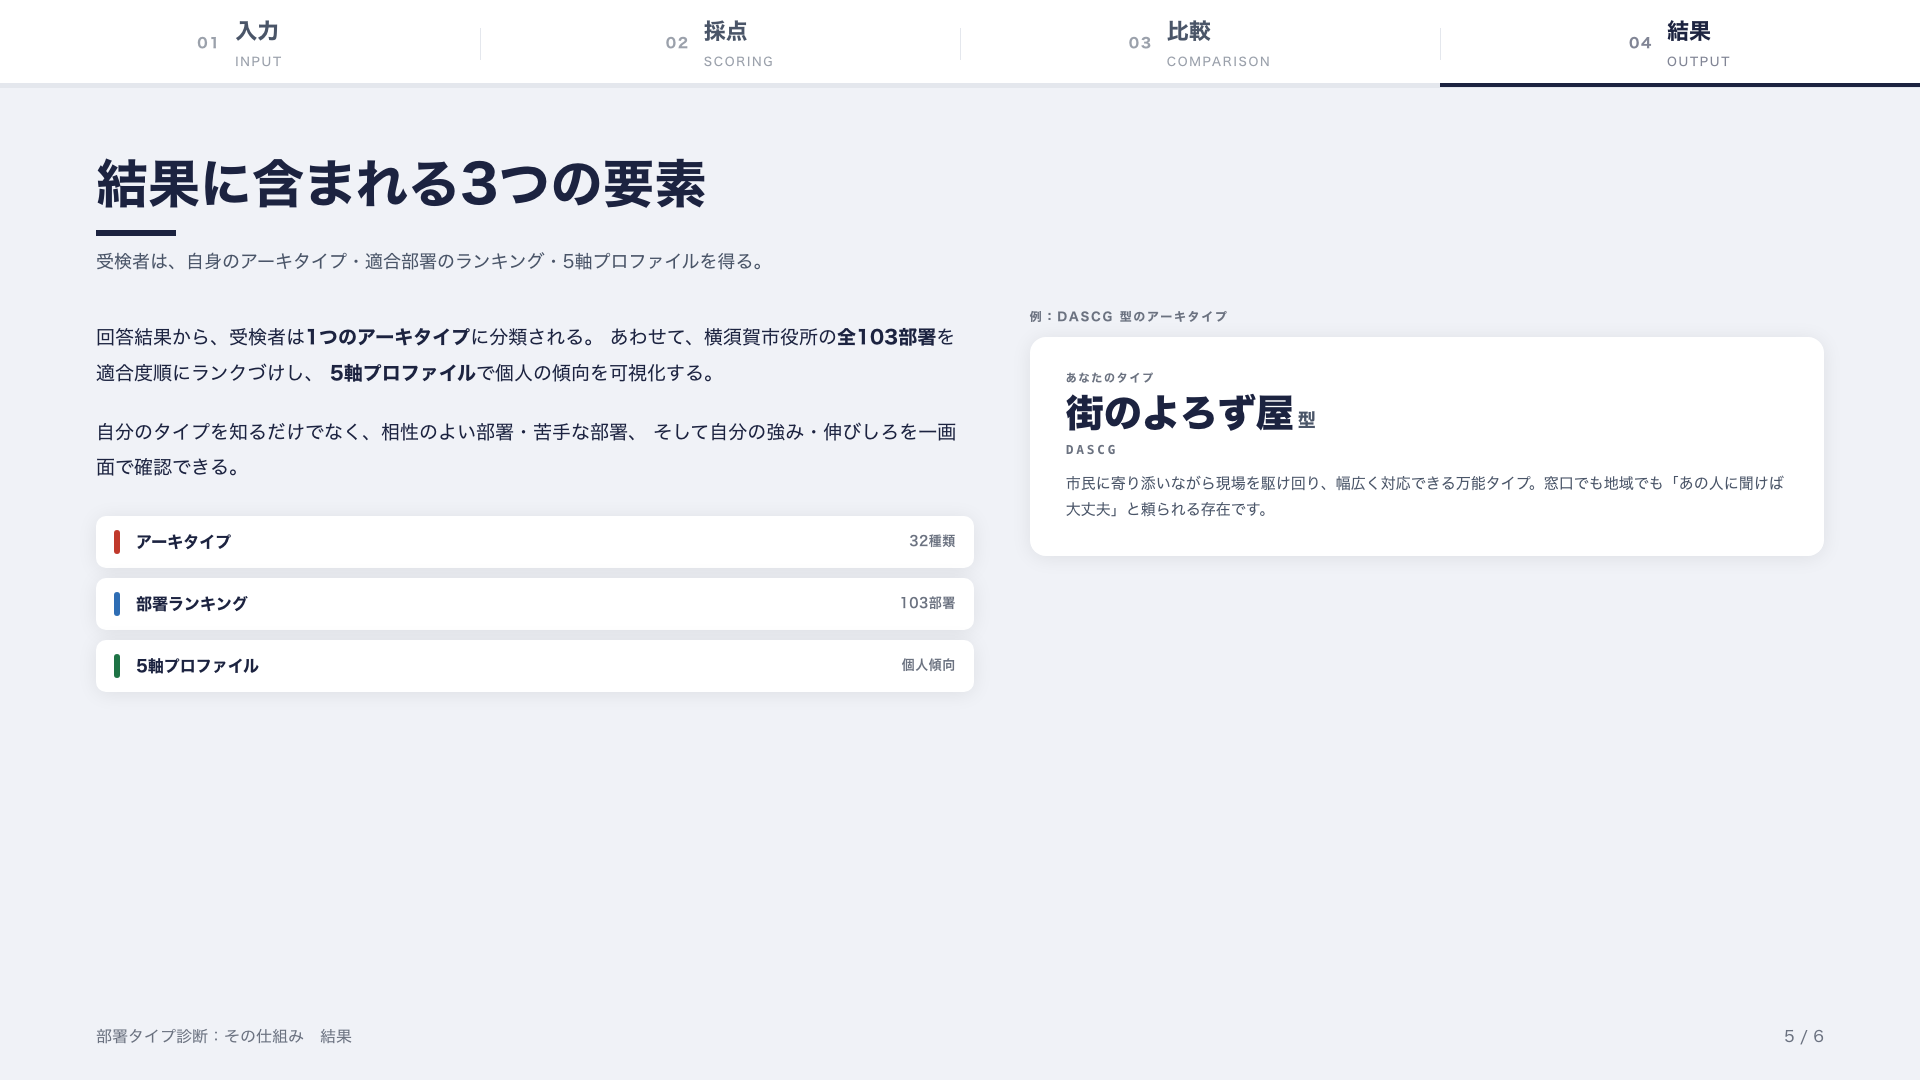
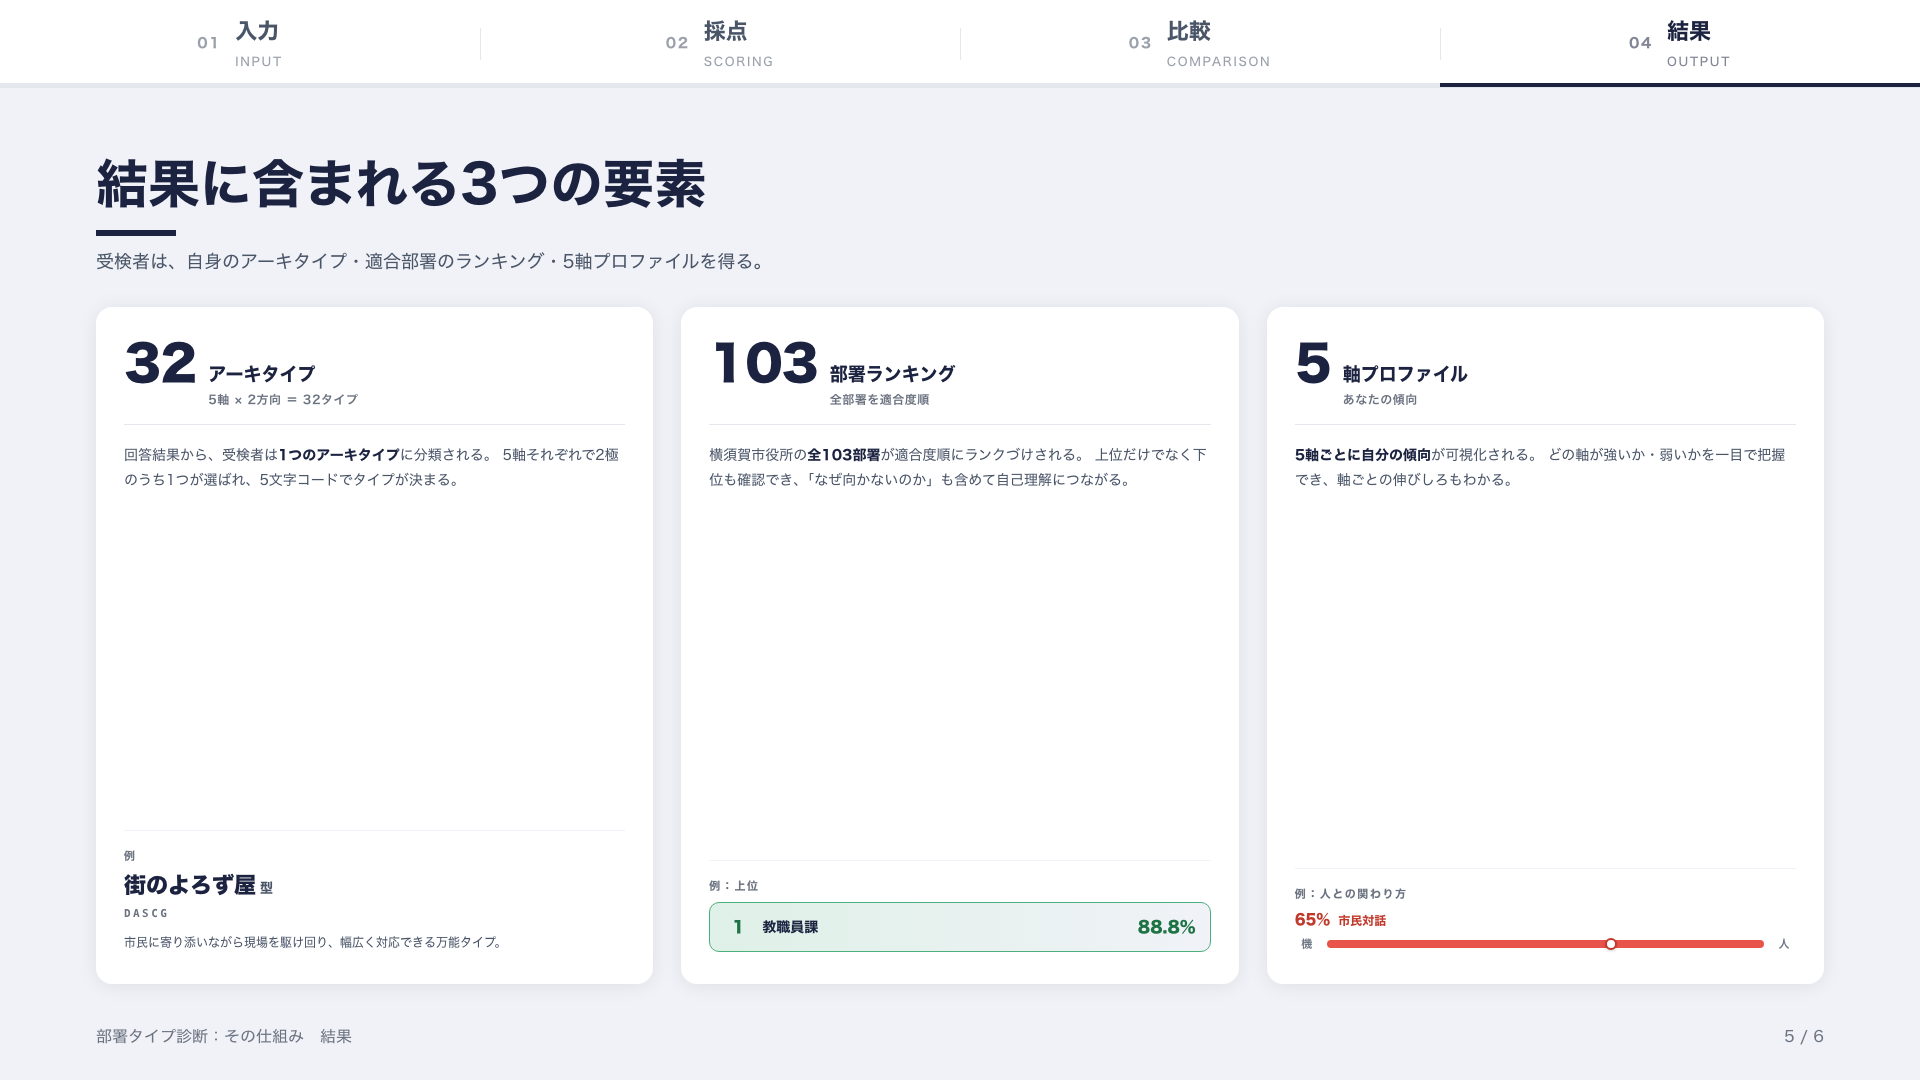
refactor(presentation): slide 5 — restore 3-card grid, swap content
Revert to the 3-column 32/103/5 card layout. Inside each card, replace
the previous list-style graphic (axis encoding strip / multi-row
ranking / 5-bar profile) with a paragraph explanation plus one
illustrative example pinned to the card foot.

Per-card examples:
- 32 アーキタイプ → DASCG = 街のよろず屋型 (single archetype)
- 103 部署ランキング → top-1 row (教職員課 88.8%)
- 5 軸プロファイル → one TraitBar (人との関わり方 65%)

diff --git a/presentations/how-it-works/index.html b/presentations/how-it-works/index.html
@@ -778,108 +778,132 @@
     text-align: center;
   }
 
-  /* ============ Slide 5: Result components (paragraph + 1 example) ============ */
+  /* ============ Slide 5: Result components (3 cards, paragraph + 1 example) ============ */
   .s5-body {
     display: grid;
-    grid-template-columns: 1.05fr 0.95fr;
-    gap: 56px;
+    grid-template-columns: 1fr 1fr 1fr;
+    gap: 28px;
     flex: 1;
-    align-items: start;
+    align-items: stretch;
   }
-  .s5-explain {
-    display: flex; flex-direction: column;
-    gap: 24px;
-    padding-top: 12px;
-  }
-  .s5-para {
-    font-size: 19px; line-height: 1.85;
-    color: var(--text);
-    margin: 0;
-  }
-  .s5-para strong {
-    font-weight: 700;
-    color: var(--hall-indigo);
-  }
-  .s5-key-list {
-    display: flex; flex-direction: column;
-    gap: 10px;
-    margin-top: 8px;
-  }
-  .s5-key {
-    display: grid;
-    grid-template-columns: 6px 1fr 96px;
-    gap: 16px; align-items: center;
-    padding: 14px 18px;
-    background: var(--card);
-    border-radius: 10px;
-    box-shadow: var(--card-shadow);
-  }
-  .s5-key::before {
-    content: ''; align-self: stretch;
-    border-radius: 3px;
-  }
-  .s5-key.k1::before { background: var(--A); }
-  .s5-key.k2::before { background: var(--B); }
-  .s5-key.k3::before { background: var(--C); }
-  .s5-key-label {
-    font-size: 16px; font-weight: 700;
-    color: var(--text);
-  }
-  .s5-key-count {
-    font-size: 13px; font-weight: 600;
-    color: var(--sub);
-    text-align: right;
-    font-variant-numeric: tabular-nums;
-    letter-spacing: 0.04em;
-  }
-  .s5-example-wrap {
-    display: flex; flex-direction: column;
-    gap: 12px;
-  }
-  .s5-example-eyebrow {
-    font-size: 12px; font-weight: 700;
-    color: var(--sub);
-    letter-spacing: 0.14em;
-    text-transform: uppercase;
-  }
-  .s5-example {
+  .s5-card {
     background: var(--card);
     border-radius: var(--card-r);
     box-shadow: var(--card-shadow);
-    padding: 32px 36px;
+    padding: 32px 28px;
     display: flex; flex-direction: column;
-    gap: 14px;
+    gap: 18px;
   }
-  .s5-example-banner {
-    display: flex; flex-direction: column;
-    gap: 6px;
+  .s5-card-head {
+    display: flex; align-items: baseline; gap: 12px;
+    border-bottom: 1px solid var(--border);
+    padding-bottom: 16px;
   }
-  .s5-example-pre {
-    font-size: 11px; font-weight: 700;
+  .s5-card-num {
+    font-size: 48px; font-weight: 800;
+    color: var(--hall-indigo);
+    letter-spacing: -0.02em;
+    line-height: 1;
+    font-variant-numeric: tabular-nums;
+  }
+  .s5-card-title { display: flex; flex-direction: column; gap: 2px; }
+  .s5-card-label {
+    font-size: 18px; font-weight: 700;
+    color: var(--text);
+  }
+  .s5-card-note {
+    font-size: 12px; font-weight: 600;
     color: var(--sub);
-    letter-spacing: 0.16em;
+    letter-spacing: 0.04em;
+  }
+  .s5-card-para {
+    font-size: 14px; line-height: 1.75;
+    color: var(--text-sec);
+    margin: 0;
+  }
+  .s5-card-para strong {
+    font-weight: 700;
+    color: var(--text);
+  }
+  .s5-card-example {
+    margin-top: auto;
+    padding-top: 16px;
+    border-top: 1px solid var(--border-light);
+    display: flex; flex-direction: column;
+    gap: 8px;
+  }
+  .s5-card-example-eyebrow {
+    font-size: 11px; font-weight: 700;
+    letter-spacing: 0.14em;
+    color: var(--sub);
     text-transform: uppercase;
   }
-  .s5-example-name {
-    font-size: 38px; font-weight: 800;
+  /* archetype example */
+  .s5-ex-arch-name {
+    font-size: 22px; font-weight: 800;
     color: var(--hall-indigo);
-    line-height: 1.15;
+    line-height: 1.2;
+    margin: 0;
   }
-  .s5-example-name small {
-    font-size: 18px; font-weight: 700;
+  .s5-ex-arch-name small {
+    font-size: 13px; font-weight: 700;
     color: var(--text-sec);
     margin-left: 4px;
   }
-  .s5-example-code {
-    font-size: 13px; font-weight: 700;
+  .s5-ex-arch-code {
+    font-size: 11px; font-weight: 700;
     color: var(--sub);
-    letter-spacing: 0.2em;
+    letter-spacing: 0.22em;
     font-family: ui-monospace, Menlo, monospace;
   }
-  .s5-example-desc {
-    font-size: 15px; line-height: 1.75;
+  .s5-ex-arch-desc {
+    font-size: 12px; line-height: 1.7;
     color: var(--text-sec);
-    margin: 0;
+    margin-top: 4px;
+  }
+  /* ranking example */
+  .s5-ex-rank {
+    display: grid;
+    grid-template-columns: 28px 1fr 64px;
+    gap: 10px; align-items: center;
+    padding: 12px 14px;
+    background: linear-gradient(90deg, rgba(76,175,125,0.18), var(--bg));
+    border: 1px solid var(--C-mid);
+    border-radius: 10px;
+  }
+  .s5-ex-rank .pos {
+    font-weight: 800; color: var(--C);
+    font-size: 16px; text-align: center;
+    font-variant-numeric: tabular-nums;
+  }
+  .s5-ex-rank .name {
+    font-weight: 700; color: var(--text);
+    font-size: 14px;
+  }
+  .s5-ex-rank .pct {
+    font-weight: 800; color: var(--C);
+    font-variant-numeric: tabular-nums;
+    text-align: right;
+    font-size: 16px;
+  }
+  /* profile bar example (TraitBar style) */
+  .s5-ex-bar { display: flex; flex-direction: column; gap: 4px; }
+  .s5-ex-bar-head {
+    display: flex; align-items: baseline; gap: 8px;
+  }
+  .s5-ex-bar-pct { font-size: 14px; font-weight: 800; color: var(--A); font-variant-numeric: tabular-nums; }
+  .s5-ex-bar-win { font-size: 12px; font-weight: 700; color: var(--A); }
+  .s5-ex-bar-row { display: flex; align-items: center; gap: 8px; }
+  .s5-ex-bar-end { width: 24px; flex-shrink: 0; font-size: 11px; color: var(--sub); text-align: center; font-weight: 600; }
+  .s5-ex-bar-track { position: relative; flex: 1; height: 8px; border-radius: 999px; background: var(--A-mid); }
+  .s5-ex-bar-dot {
+    position: absolute; top: 50%;
+    transform: translate(-50%, -50%);
+    width: 12px; height: 12px;
+    border-radius: 50%;
+    background: white;
+    border: 2.5px solid var(--A);
+    box-shadow: 0 1px 3px rgba(0,0,0,.18);
   }
 
   /* ============ Slide 6: Example result ============ */
@@ -1335,43 +1359,75 @@
         <div class="sec-sub">受検者は、自身のアーキタイプ・適合部署のランキング・5軸プロファイルを得る。</div>
       </header>
       <div class="s5-body">
-        <div class="s5-explain">
-          <p class="s5-para">
+
+        <div class="s5-card">
+          <div class="s5-card-head">
+            <div class="s5-card-num">32</div>
+            <div class="s5-card-title">
+              <div class="s5-card-label">アーキタイプ</div>
+              <div class="s5-card-note">5軸 × 2方向 ＝ 32タイプ</div>
+            </div>
+          </div>
+          <p class="s5-card-para">
             回答結果から、受検者は<strong>1つのアーキタイプ</strong>に分類される。
-            あわせて、横須賀市役所の<strong>全103部署</strong>を適合度順にランクづけし、
-            <strong>5軸プロファイル</strong>で個人の傾向を可視化する。
+            5軸それぞれで2極のうち1つが選ばれ、5文字コードでタイプが決まる。
           </p>
-          <p class="s5-para">
-            自分のタイプを知るだけでなく、相性のよい部署・苦手な部署、
-            そして自分の強み・伸びしろを一画面で確認できる。
+          <div class="s5-card-example">
+            <div class="s5-card-example-eyebrow">例</div>
+            <h4 class="s5-ex-arch-name">街のよろず屋<small>型</small></h4>
+            <div class="s5-ex-arch-code">DASCG</div>
+            <div class="s5-ex-arch-desc">市民に寄り添いながら現場を駆け回り、幅広く対応できる万能タイプ。</div>
+          </div>
+        </div>
+
+        <div class="s5-card">
+          <div class="s5-card-head">
+            <div class="s5-card-num">103</div>
+            <div class="s5-card-title">
+              <div class="s5-card-label">部署ランキング</div>
+              <div class="s5-card-note">全部署を適合度順</div>
+            </div>
+          </div>
+          <p class="s5-card-para">
+            横須賀市役所の<strong>全103部署</strong>が適合度順にランクづけされる。
+            上位だけでなく下位も確認でき、「なぜ向かないのか」も含めて自己理解につながる。
           </p>
-          <div class="s5-key-list">
-            <div class="s5-key k1">
-              <span class="s5-key-label">アーキタイプ</span>
-              <span class="s5-key-count">32種類</span>
-            </div>
-            <div class="s5-key k2">
-              <span class="s5-key-label">部署ランキング</span>
-              <span class="s5-key-count">103部署</span>
-            </div>
-            <div class="s5-key k3">
-              <span class="s5-key-label">5軸プロファイル</span>
-              <span class="s5-key-count">個人傾向</span>
+          <div class="s5-card-example">
+            <div class="s5-card-example-eyebrow">例：上位</div>
+            <div class="s5-ex-rank">
+              <span class="pos">1</span><span class="name">教職員課</span><span class="pct">88.8%</span>
             </div>
           </div>
         </div>
 
-        <div class="s5-example-wrap">
-          <div class="s5-example-eyebrow">例：DASCG 型のアーキタイプ</div>
-          <div class="s5-example">
-            <div class="s5-example-banner">
-              <div class="s5-example-pre">あなたのタイプ</div>
-              <div class="s5-example-name">街のよろず屋<small>型</small></div>
-              <div class="s5-example-code">DASCG</div>
+        <div class="s5-card">
+          <div class="s5-card-head">
+            <div class="s5-card-num">5</div>
+            <div class="s5-card-title">
+              <div class="s5-card-label">軸プロファイル</div>
+              <div class="s5-card-note">あなたの傾向</div>
             </div>
-            <p class="s5-example-desc">市民に寄り添いながら現場を駆け回り、幅広く対応できる万能タイプ。窓口でも地域でも「あの人に聞けば大丈夫」と頼られる存在です。</p>
+          </div>
+          <p class="s5-card-para">
+            <strong>5軸ごとに自分の傾向</strong>が可視化される。
+            どの軸が強いか・弱いかを一目で把握でき、軸ごとの伸びしろもわかる。
+          </p>
+          <div class="s5-card-example">
+            <div class="s5-card-example-eyebrow">例：人との関わり方</div>
+            <div class="s5-ex-bar">
+              <div class="s5-ex-bar-head">
+                <span class="s5-ex-bar-pct">65%</span>
+                <span class="s5-ex-bar-win">市民対話</span>
+              </div>
+              <div class="s5-ex-bar-row">
+                <span class="s5-ex-bar-end">機</span>
+                <div class="s5-ex-bar-track"><span class="s5-ex-bar-dot" style="left:65%"></span></div>
+                <span class="s5-ex-bar-end">人</span>
+              </div>
+            </div>
           </div>
         </div>
+
       </div>
     </section>
 
